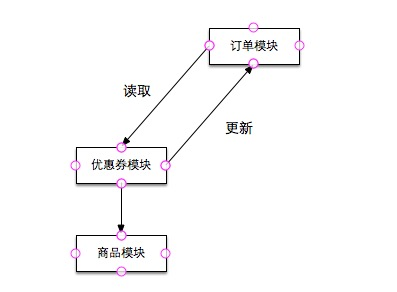
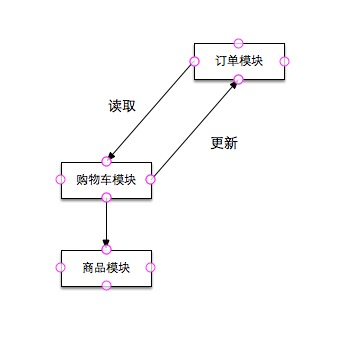
format

diff --git a/购物车.md b/购物车.md
@@ -218,6 +218,16 @@
 	 500~1000ms: 	 amount:2281	 avgTime:0.662
 	 >1000ms: 	 amount:340	 avgTime:1.364
 
+	merge 总的请求量大（登录就会发送请求，把没有合并的过滤掉的结果如下)	
+	name:_order_shopping_cart_merge total_amount:454 TotalAvgTime:0.319
+	 0~50ms: 	 amount:2	 avgTime:0.043
+	 50~100ms: 	 amount:138	 avgTime:0.078
+	 100~150ms: 	 amount:82	 avgTime:0.121
+	 150~300ms: 	 amount:98	 avgTime:0.214
+	 300~500ms: 	 amount:60	 avgTime:0.38
+	 500~1000ms: 	 amount:45	 avgTime:0.726
+	 >1000ms: 	 amount:29	 avgTime:1.64
+
 	```
 	添加购物车里面有判断购物车是否存在这个sku的判断，里面取了用户所有的购物车数据，看逻辑里面遍历的调用了商品库，导致耗时较长，~85%
 
@@ -262,29 +272,27 @@
 
 针对上面出现的这些问题，明确这些改动的目标是要购物车系统更稳定，代码结构清晰，降低开发难度，提升开发效率。
 
-把购物车分为两个大部分，其中的核心是数据的暂存功能，这部分正常工作不会影响用户交易的正常流程，落到业务功能上也就是购物车的增删改查。相对次要功能是优惠促销的展示，这部分的产品思想是要促进交易的进行，但是它本质上属于非核心的数据，出现问题也不会波及到主站的交易进行。 从代码结构上把它们拆分开使整个系统的结构更加清晰，对任何的子模块都可以实现功能的插拔，在系统压力较大的时候可以对这些功能选择性的降级。我们主要从下面6个方面来考虑
+把购物车分为两个大部分，其中的核心是数据的暂存功能，这部分正常工作不会影响用户交易的正常流程，落到业务功能上也就是购物车的增删改查。相对次要功能是优惠促销的展示，这部分的产品思想是要促进交易的进行，但是它本质上属于非核心的数据，出现问题也不会波及到主站的交易进行。 从代码结构上把它们拆分开使整个系统的结构更加清晰，对任何的子模块都可以实现功能的插拔，在系统压力较大的时候可以对这些功能选择性的降级。我们主要从下面几个方面来考虑
    
-- **系统解耦合**
+- **系统解耦合** : 统的解耦合也就是说把原来的一大块拆解成一块块相对独立的功能服务，这种服务可以独立配置，独立部署。购物车除了本身以外还主要涉及到其他四个子服务：商品服务，优惠券服务，满额满件服务，商家促销服务。每个服务对外提供的接囗保持相对的稳定，并尽量不要依赖其他的服务，并提供多种调用方式。购物车系统通过日志监控每个子服务的服务质量（SLA)。
 
-- **可插拔功能的实现**
+- **服务对外接囗数据发生变化的考虑** : 接囗数据的变动在系统的现阶段比较容易出现，比如购物车的商品来源加入Higo，购物车系统要很快的兼容这种变化。我们可以定义一个商品抽象类，这些商品都有共同的属性和方法，防止硬编码。具体内部逻辑的不同在子类中处理，使用商品方不用了解各商品的不同。
 
-- **服务对外接囗数据发生变化的考虑**
 
-- **存储介质扩展性的考虑**
+商品是什么样的类型，使用方可以不用关心，直接使用$obj->size(), $obj->color()，$obj->price(), $obj->stock()获取商品属性。
+
+另外还需要考虑一种情况，如果商品的某一个属性（如价格，库存）需要单独的拆分成一个服务，是由商品服务内部处理，还是购物车服务来处理？由商品服务内部处理的话，优点是调用方不用改动，缺点就是单独的商品相对稳定的信息应该更快一些，价格和库存等信息的获取要相对复杂一些，耗时也要相对多一些，调用方可以根据需求来决定是否使用这些服务。
+
+- **存储介质扩展性的考虑** : 获取数据上方加和一层adapter对数据做适配，上层只需要获取数据，不用考虑数据使用什么存储。
 
 - **对老版本的支持**：由于mob老版本的存在，我们开发新的接囗，保持目前接囗的可用性。
 
-- **购物车存储字段**: user_id，sku_id, amount。这三个字段是实现购物车最核心字段，因为具体功能的实现，折衷加入了price,source（加车来源）。目前表里存在的字段如color，size，offline_sid，理论上都应该去掉。因为BI加入的pid考虑用其他的方式实现统计需求（如使用消息队列）。
-   
 ## 3,子系统内部拆分原则和详述
 
-### 1，系统解耦合 
+### 1，可插拔模块的实现
+   
+这个主要针对非核心的数据来说的，首先购物车系统要对外的每个接囗提供的数据要有清晰的认知，哪些是核心数据，哪些是非核心的数据，对于非核心的数据要提供默认值，非核心服务出现异常时要确保不会影响到用户的核心流程。内部的实现逻辑是这样：
 
-系统的解耦合也就是说把原来的一大块拆解成一块块相对独立的功能服务，这种服务可以独立配置，独立部署。购物车除了本身以外还主要涉及到其他四个子服务：商品服务，优惠券服务，满额满件服务，商家促销服务。每个服务对外提供的接囗保持相对的稳定，并尽量不要依赖其他的服务，并提供多种调用方式。购物车系统通过日志监控每个子服务的服务质量（SLA)。
-
-### 2， 可插拔功能的实现
-
-这个主要针对非核心的数据来说的，首先购物车系统要对外的每个接囗提供的数据要有清晰的认知，哪些是核心数据，哪些是非核心的数据，对于非核心的数据要提供默认值，非核心服务出现异常时要确保不会影响到用户的核心流程。内部的实现逻辑大概是这样：
 ```
 $serviceMap = array(
 	'coupon' => array('switch' => CouponService::serviceSwitch(), 'param' => ...),
@@ -294,36 +302,63 @@ $serviceMap = array(
 $serviceManager->addParam($serviceMap)->run();
 $response = $serviceManager->response();
 ```
-对每个服务的调用都设置一个开发，系统可以根据某些条件来调用服务与否。如果有功能点加入或移除，只要在serviceMap里面加入或删除对应的条目就可以轻松实现。
 
-### 3，服务对外接囗数据发生变化的考虑
+response的结构为：
 
-接囗数据的变动在系统的现阶段比较容易出现，比如购物车的商品来源加入Higo，购物车系统要很快的兼容这种变化。我们可以定义一个商品抽象类，这些商品都有共同的属性和方法，防止硬编码。具体内部逻辑的不同在子类中处理，使用商品方不用了解各商品的不同。
+```
+{
+    "coupon": [
+        {
+            "id": "xxx",
+            "title": "xxx",
+            "credit": "xxx"
+        },
+        {
+            "id": "xxx",
+            "title": "xxx",
+            "credit": "xxx"
+        }
+    ],
+    "promotion": [],
+    "campaign": [
+        {
+            "id": "xxx",
+            "type": "xxx",
+            "title": "xxx",
+            "sku_id": "xxx"
+        }
+    ]
+}
+
+```
+
+对每个服务的调用都设置一个开关，系统可以根据某些条件来调用服务与否。如果有功能点加入或移除，只要在serviceMap里面加入或删除对应的条目就可以轻松实现。还有一个问题是在开发中经常遇到的，不同的开发人员对没有数据的默认值是不一样的，有的些空array，有的是false，还有0等。除了要和前端商量好一个标准外（往往不同的人有不同的标准），最应该做的是至少每个接囗要一致。在每个子服务（如CampaignService，默认的返回值直接设置在一个类常量里）。
+
+
+### 2，购物车列表数据组装
+
+购物车列表是功能相对简单的一个业务，但由于它设计的服务较多，数据的合理组装才是它的一个难点。如果一开始没有设计好，随着需求的增加，就会不停的向上贴代码，可维护性会越来越差。对此，我们将职责从客户端代码中移到专门的对象中，尽量减少相互依赖。
 
 <center>![商品数据读取类图](img/商品类图.png)</center>
-<center>图3-1：商品数据读取类图</center>
+<center>图3-1：购物车列表</center>
 
-商品是什么样的类型，使用方可以不用关心，直接使用$obj->size(), $obj->color()就可以了。
+子模块负责自已的数据，新加入的模块不需要考虑其他的模块数据。
 
-### 4，存储介质扩展性
-
-获取数据上方加和一层adapter对数据做适配，上层只需要获取数据，而不用考虑数据使用什么存储。短期内DB不会成为瓶颈，还是继续保持以MySQL作为数据存储，但对表里没有用处的字段可以不再处理（color, size等）。
-
-### 5，购物车列表流程图
+### 3，购物车列表流程图
 
 <center>![购物车列表流程图](img/购物车列表流程图.png)</center>
 <center>图3-1：购物车列表流程图</center>
    
 上图描述了购物车列表获取数据的流程，首先根据用户ID获取购物车的主数据（目前100条，可灵活调整），获取到购物车数据的sku，shop_id，goods_id并发的向商品模块获取商品的详细信息，向优惠模块获取商品所对应的优惠信息，拿到数据后根据各平台的格式规定组装数据返回给前端。
     
-### 6，加车流程图
+### 4，加车流程图
 
 <center>![添加商品到购物车流程图](img/加车.png)</center>
 <center>图3-2：添加商品到购物车流程图</center>
 
 上图描述的加车的流程，根据sku_id获取商品数据，判断商品是否可以加入购物车（上下架，库存，购物车容量等）。如是是合法数据，判断sku在购物车中是否存在。存在的话，直接更新购物车sku数量，否则写入cart表。
 
-### 7，更新购物车商品属性流程图
+### 5，更新购物车商品属性流程图
 
 <center>![更新购物车流程图](img/更新购物车.png)</center>
 <center>图3-3：更新购物车流程图</center>
@@ -348,8 +383,7 @@ $response = $serviceManager->response();
             "total_price": 8893.88,
             "im": {
                 "qq": "",
-                "type": 2,
-                "shop_id": "100843"
+                "type": 2
             },
             "shop_promote": [
                 {
@@ -439,10 +473,40 @@ $response = $serviceManager->response();
 
 - 更新，删除，增加：返回success或错误信息。
 
+```
+{
+    "code": 0,
+    "info": {
+		"msg" => "success",
+     }
+
+``` 
+
 ## 5,流量和性能要求
 
-调研阶段的结论显示购物车的性能主要依赖于商品优惠券等子模块的性能。预估优化合理，购物车列表性能在50ms左右。
-
+* 系统稳定性指标
+    * 系统有效工作时间要求>=99.9% ？
+* 业务处理能力性能指标（目前的都是指线上的正常请求量）
+    * 业务高峰时，目前线上每秒处理增删改查数据量，耗时及要求
+        * 添加购物车 
+            * 目前：17次，244ms
+            * 要求：600次，49ms
+        * 购物车列表
+            * 目前：26次，306ms
+            * 要求：600次，61ms
+        * 更新商品sku属性
+            * 目前：0.41次, 41ms
+            * 要求：600次，8ms
+        * 更新商品sku数量
+            * 目前：1次，24ms
+            * 要求：800次 20ms
+        * 删除商品
+            * 目前：9.34次，35ms
+            * 要求：600次，20ms
+        * 购物车合并（有效合并）
+            * 目前：0.13次,320ms
+            * 要求：600次，50ms
+   
 ## 6,数据层方案（schema，分库分表策略，主从同步要求等）
 
 ## 7，迁移方案、部署方案
